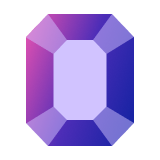
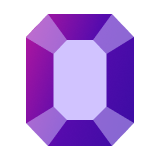
Sửa màu một tí

Changed region(s): [[0.1562, 0.0625, 0.6875, 0.7812], [0.6562, 0.2188, 0.8438, 0.7812], [0.3125, 0.75, 0.6875, 0.9375]]

diff --git a/lib/src/shared/app_colors.dart b/lib/src/shared/app_colors.dart
@@ -13,7 +13,7 @@ const Color elevationLight = Color(0xFFE9E9E9); // Màu độ cao sáng
 
 // Other colors
 const Color primary = Color(0xFF4095d0); // Màu chính
-const Color primary2 = Color(0xFF4D2DB7); // Màu chính 2
+const Color primary2 = Color(0xFF560bad); // Màu chính 2
 const Color green = Color(0xFF3BE2B0);
 const Color error = Color(0xFFff5858); // Màu lỗi
 const Color darkblue = Color(0xFF5986cc);
@@ -37,9 +37,9 @@ const LinearGradient gradient2 = LinearGradient(
   begin: Alignment.centerLeft,
   end: Alignment.centerRight,
   colors: [
-    Color(0xFFEC53B0),
-    Color(0xFF4D2DB7),
-    Color(0xFF0E21A0),
+    Color(0xFFb5179e),
+    primary2,
+    Color(0xFF3a0ca3),
   ],
 );
 
